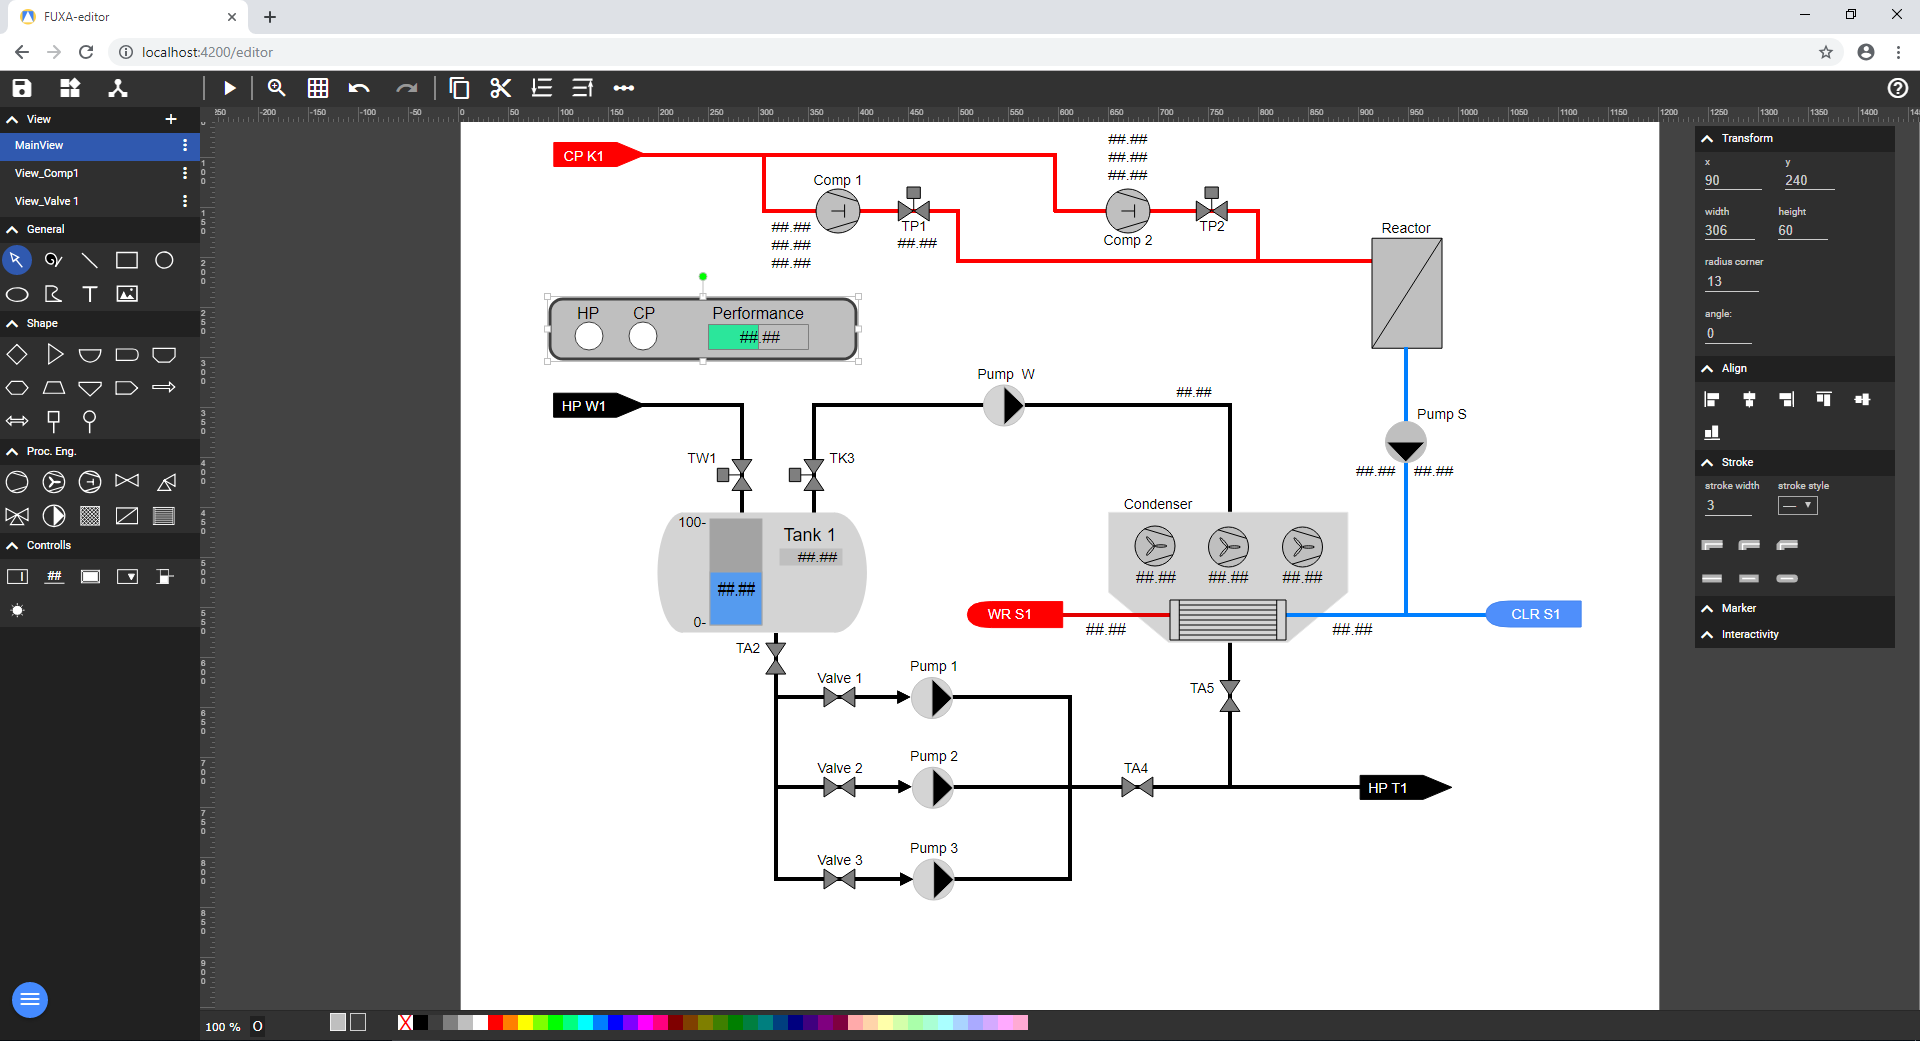
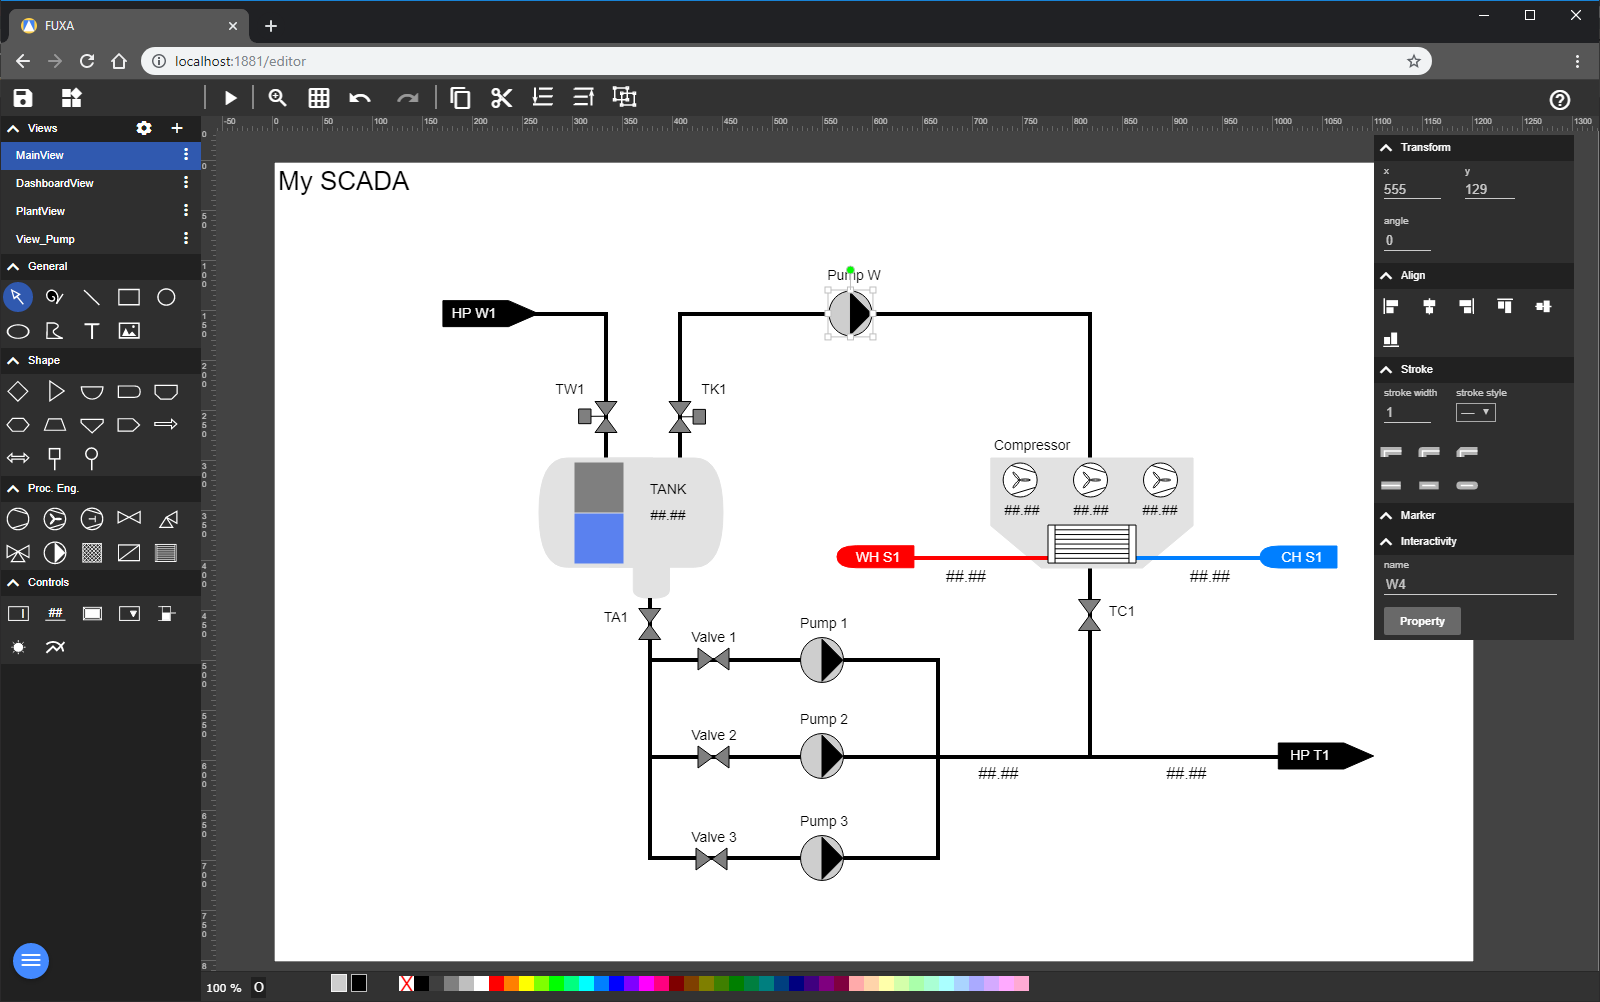
fixed css view margin and text

diff --git a/client/src/app/home/home.component.html b/client/src/app/home/home.component.html
@@ -9,13 +9,15 @@
         <mat-icon aria-label="Menu">menu</mat-icon>
       </button>
     </div>
-    <app-fuxa-view style="padding-top: 5px;" *ngIf="showHomeView" #fuxaview class="home-body" id="home" [view]="homeView" [hmi]="hmi" [gaugesManager]="gaugesManager"></app-fuxa-view>
-    <!-- <app-fuxa-view [hidden]="!showHomeView" #fuxaview class="home-body" id="home" [view]="homeView" [hmi]="hmi" [gaugesManager]="gaugesManager"></app-fuxa-view> -->
-    <!-- <app-iframe [hidden]="isLoading && !showHomeLink" #iframeview [link]="homeLink" class="home-body"></app-iframe> -->
-    <div [style.visibility]="(showHomeView) ? 'hidden' : 'visible' " class="home-body home-info">
-      <p>
-        {{'msg.home-welcome' | translate}}.
-      </p>
+    <div style="padding-top: 5px;">
+      <app-fuxa-view *ngIf="showHomeView" #fuxaview class="home-body" id="home" [view]="homeView" [hmi]="hmi" [gaugesManager]="gaugesManager"></app-fuxa-view>
+      <!-- <app-fuxa-view [hidden]="!showHomeView" #fuxaview class="home-body" id="home" [view]="homeView" [hmi]="hmi" [gaugesManager]="gaugesManager"></app-fuxa-view> -->
+      <!-- <app-iframe [hidden]="isLoading && !showHomeLink" #iframeview [link]="homeLink" class="home-body"></app-iframe> -->
+      <div [style.visibility]="(showHomeView) ? 'hidden' : 'visible' " class="home-body home-info">
+        <p>
+          {{'msg.home-welcome' | translate}}.
+        </p>
+      </div>
     </div>
   </mat-sidenav-content>
 